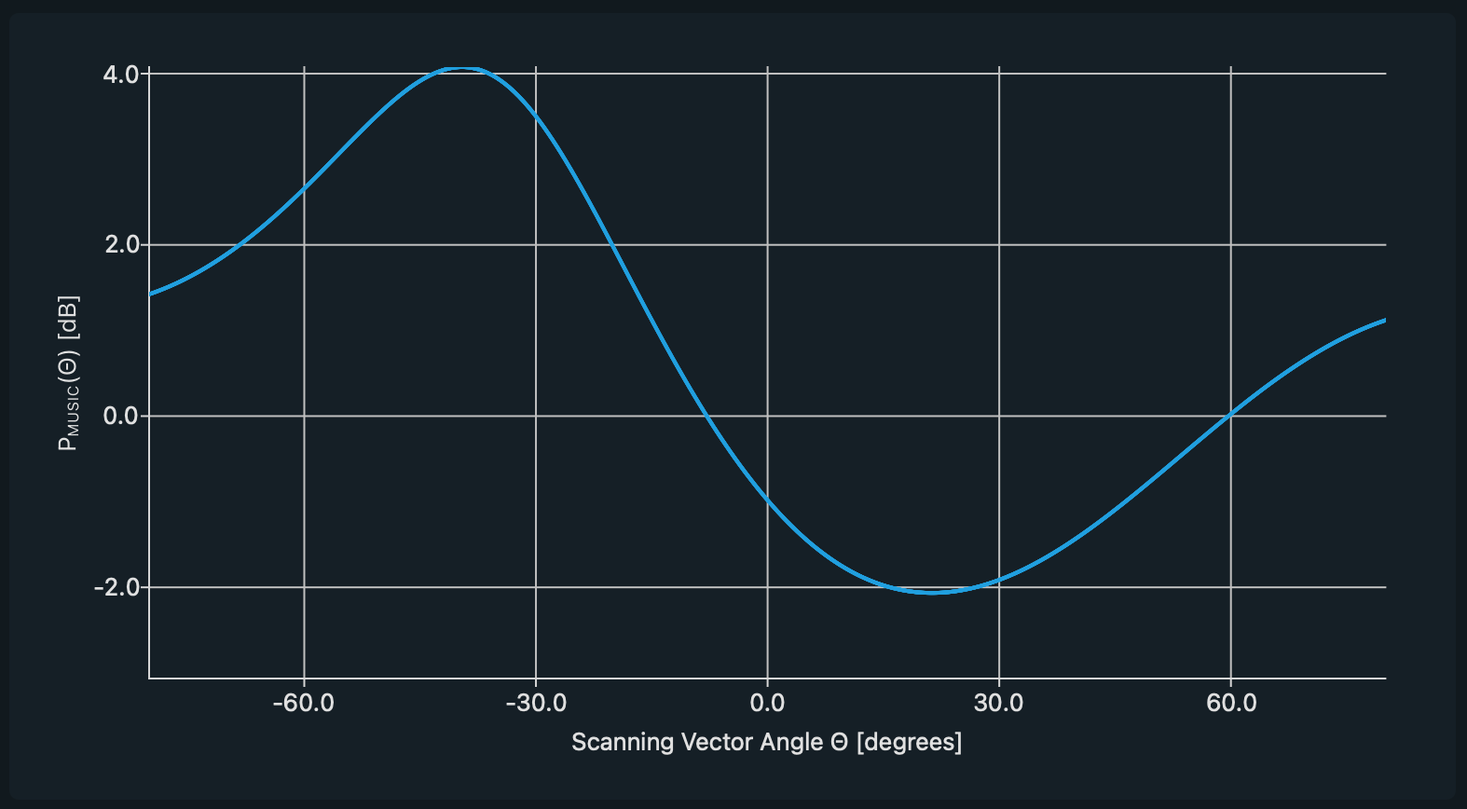
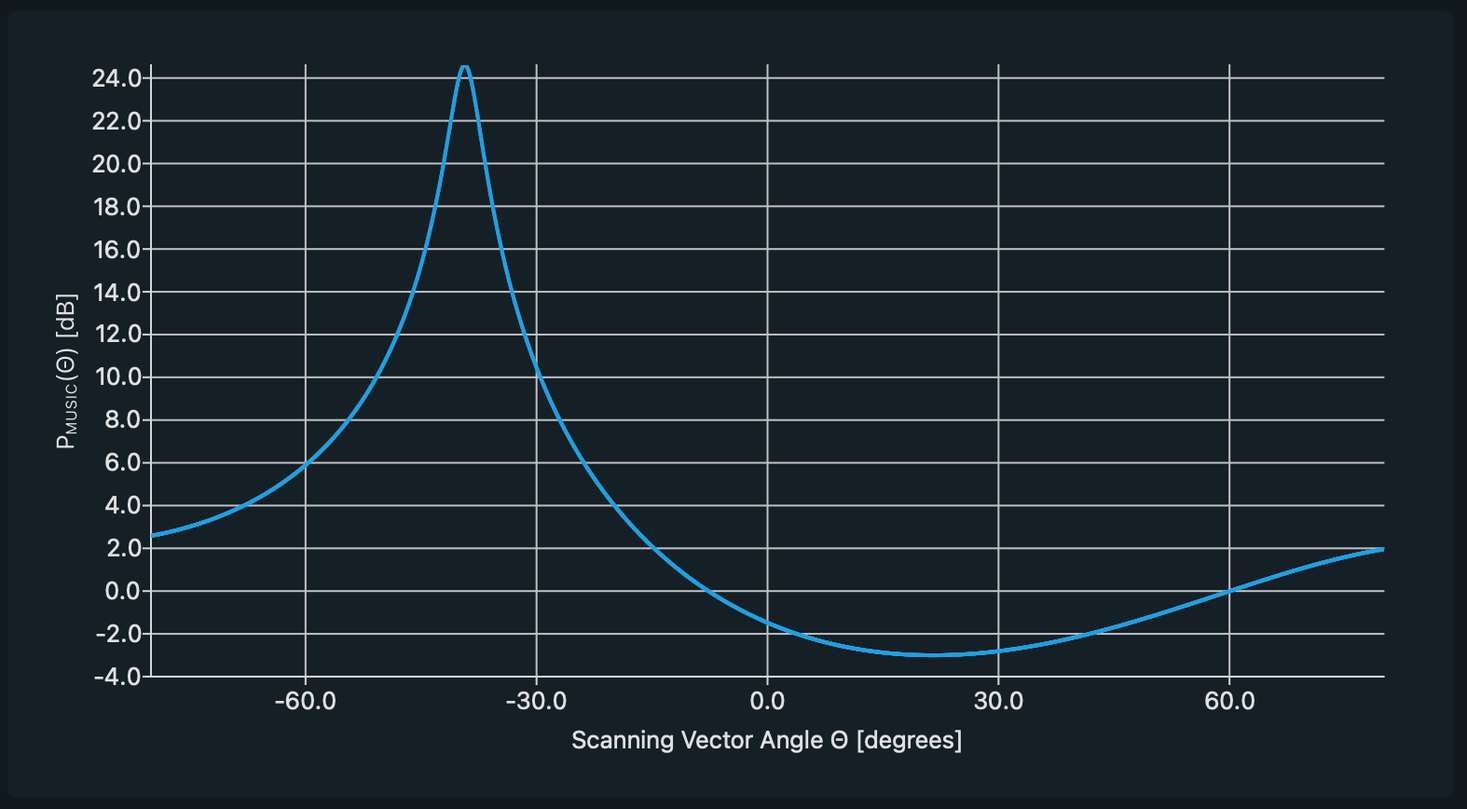
Measurement

diff --git a/matlab/music_125MHz_M256_1m_-30deg/cfr.m b/matlab/music_125MHz_M256_1m_-30deg/cfr.m
@@ -1,116 +1,116 @@
 % Auto-generated MATLAB script
 clear;
-CH0_318 = [ ...
-0 + 1i*0, 1.70001 + 1i*-0.251694, 1.69563 + 1i*-0.273885, 1.69081 + 1i*-0.295981, 1.68555 + 1i*-0.31797,  ...
-1.67987 + 1i*-0.339844, 1.67376 + 1i*-0.361593, 1.66722 + 1i*-0.383208, 1.66025 + 1i*-0.404678, 1.65287 + 1i*-0.425995,  ...
-1.64506 + 1i*-0.447148, 1.63684 + 1i*-0.468129, 1.62821 + 1i*-0.488927, 1.61917 + 1i*-0.509534, 1.60972 + 1i*-0.529939,  ...
-1.59987 + 1i*-0.550133, 1.58962 + 1i*-0.570108, 1.57898 + 1i*-0.589853, 1.56795 + 1i*-0.60936, 1.55653 + 1i*-0.628619,  ...
-1.54473 + 1i*-0.647621, 1.53256 + 1i*-0.666357, 1.52001 + 1i*-0.684817, 1.50709 + 1i*-0.702993, 1.49381 + 1i*-0.720875,  ...
-1.48018 + 1i*-0.738455, 1.46619 + 1i*-0.755723, 1.45186 + 1i*-0.772671, 1.43719 + 1i*-0.78929, 1.42219 + 1i*-0.80557,  ...
-1.40685 + 1i*-0.821504, 1.3912 + 1i*-0.837082, 1.37522 + 1i*-0.852296, 0 + 1i*0, 0 + 1i*0,  ...
-0 + 1i*0, 0 + 1i*0, 0 + 1i*0, 0 + 1i*0, 0 + 1i*0,  ...
-0 + 1i*0, 0 + 1i*0, 0 + 1i*0, 0 + 1i*0, 0 + 1i*0,  ...
-0 + 1i*0, 0 + 1i*0, 0 + 1i*0, 0 + 1i*0, 0 + 1i*0,  ...
-0 + 1i*0, 0 + 1i*0, 0 + 1i*0, 0.980362 + 1i*-1.07311, 0.959456 + 1i*-1.07828,  ...
-0.938433 + 1i*-1.0829, 0.917305 + 1i*-1.08698, 0.896083 + 1i*-1.0905, 0.874778 + 1i*-1.09346, 0.853402 + 1i*-1.09586,  ...
-0.831966 + 1i*-1.09768, 0.810483 + 1i*-1.09893, 0.788964 + 1i*-1.09959, 0.767422 + 1i*-1.09967, 0.745869 + 1i*-1.09915,  ...
-0.724318 + 1i*-1.09803, 0.702782 + 1i*-1.09631, 0.681274 + 1i*-1.09398, 0.659808 + 1i*-1.09104, 0.638396 + 1i*-1.08748,  ...
-0.617052 + 1i*-1.0833, 0.595792 + 1i*-1.07849, 0.574627 + 1i*-1.07305, 0.553573 + 1i*-1.06698, 0.532645 + 1i*-1.06028,  ...
-0.511857 + 1i*-1.05294, 0.491223 + 1i*-1.04495, 0.470759 + 1i*-1.03632, 0.45048 + 1i*-1.02704, 0.430401 + 1i*-1.01711,  ...
-0.410538 + 1i*-1.00654, 0.390907 + 1i*-0.995306, 0.371524 + 1i*-0.983421, 0.352404 + 1i*-0.970881, 0.333565 + 1i*-0.957685,  ...
-0.315022 + 1i*-0.943832, 0.296792 + 1i*-0.929322, 0.278892 + 1i*-0.914155, 0.261339 + 1i*-0.898331, 0.244151 + 1i*-0.88185,  ...
-0.227343 + 1i*-0.864715, 0.210935 + 1i*-0.846925, 0.194942 + 1i*-0.828483, 0.179384 + 1i*-0.80939, 0.164278 + 1i*-0.789649,  ...
-0.149642 + 1i*-0.769261, 0.135494 + 1i*-0.74823, 0.121852 + 1i*-0.726559, 0.108736 + 1i*-0.704252, 0.0961623 + 1i*-0.681312,  ...
-0.0841509 + 1i*-0.657744, 0.0727205 + 1i*-0.633552, 0.0618896 + 1i*-0.608741, 0 + 1i*0, 0 + 1i*0,  ...
+CH0_315 = [ ...
 0 + 1i*0, 0 + 1i*0, 0 + 1i*0, 0 + 1i*0, 0 + 1i*0,  ...
 0 + 1i*0, 0 + 1i*0, 0 + 1i*0, 0 + 1i*0, 0 + 1i*0,  ...
 0 + 1i*0, 0 + 1i*0, 0 + 1i*0, 0 + 1i*0, 0 + 1i*0,  ...
 0 + 1i*0, 0 + 1i*0, 0 + 1i*0, 0 + 1i*0, 0 + 1i*0,  ...
 0 + 1i*0, 0 + 1i*0, 0 + 1i*0, 0 + 1i*0, 0 + 1i*0,  ...
+0 + 1i*0, -0.617609 + 1i*1.04499, -0.645365 + 1i*1.06919, -0.673325 + 1i*1.09248, -0.701475 + 1i*1.11488,  ...
+-0.729799 + 1i*1.13638, -0.758283 + 1i*1.15699, -0.786912 + 1i*1.17672, -0.815672 + 1i*1.19558, -0.844549 + 1i*1.21358,  ...
+-0.873529 + 1i*1.23072, -0.902599 + 1i*1.24701, -0.931745 + 1i*1.26247, -0.960954 + 1i*1.27709, -0.990213 + 1i*1.29088,  ...
+-1.01951 + 1i*1.30386, -1.04883 + 1i*1.31603, -1.07817 + 1i*1.3274, -1.1075 + 1i*1.33798, -1.13683 + 1i*1.34778,  ...
+-1.16613 + 1i*1.3568, -1.1954 + 1i*1.36506, -1.22462 + 1i*1.37256, -1.25378 + 1i*1.37931, -1.28288 + 1i*1.38531,  ...
+-1.31191 + 1i*1.39059, -1.34084 + 1i*1.39515, -1.36967 + 1i*1.39899, -1.3984 + 1i*1.40212, -1.42701 + 1i*1.40456,  ...
+-1.4555 + 1i*1.40631, -1.48384 + 1i*1.40738, -1.51204 + 1i*1.40778, -1.54009 + 1i*1.40752, -1.56797 + 1i*1.40661,  ...
+-1.59568 + 1i*1.40505, -1.62321 + 1i*1.40286, -1.65055 + 1i*1.40004, -1.67769 + 1i*1.39661, -1.70463 + 1i*1.39257,  ...
+-1.73136 + 1i*1.38793, -1.75786 + 1i*1.3827, -1.78414 + 1i*1.37689, -1.81018 + 1i*1.37051, -1.83598 + 1i*1.36357,  ...
+-1.86152 + 1i*1.35607, -1.88682 + 1i*1.34803, -1.91185 + 1i*1.33945, -1.93661 + 1i*1.33034, -1.96109 + 1i*1.32072,  ...
+-1.98529 + 1i*1.31058, -2.00921 + 1i*1.29995, -2.03283 + 1i*1.28882, -2.05615 + 1i*1.27721, -2.07916 + 1i*1.26513,  ...
+-2.10187 + 1i*1.25258, -2.12425 + 1i*1.23957, -2.14632 + 1i*1.22612, -2.16805 + 1i*1.21223, -2.18946 + 1i*1.19791,  ...
+-2.21052 + 1i*1.18317, -2.23125 + 1i*1.16801, -2.25163 + 1i*1.15245, -2.27165 + 1i*1.1365, -2.29132 + 1i*1.12016,  ...
+-2.31063 + 1i*1.10344, -2.32957 + 1i*1.08635, -2.34815 + 1i*1.0689, -2.36635 + 1i*1.0511, -2.38417 + 1i*1.03295,  ...
+-2.40162 + 1i*1.01447, -2.41867 + 1i*0.995666, -2.43534 + 1i*0.976542, -2.45162 + 1i*0.957108, -2.4675 + 1i*0.937373,  ...
+-2.48298 + 1i*0.917345, -2.49806 + 1i*0.897033, -2.51273 + 1i*0.876446, -2.52699 + 1i*0.855593, -2.54084 + 1i*0.83448,  ...
+-2.55427 + 1i*0.813117, -2.56728 + 1i*0.791511, -2.57987 + 1i*0.769673, -2.59204 + 1i*0.74761, -2.60377 + 1i*0.72533,  ...
+-2.61508 + 1i*0.702842, -2.62596 + 1i*0.680153, -2.6364 + 1i*0.657274, -2.6464 + 1i*0.634211, -2.65596 + 1i*0.610974,  ...
+-2.66507 + 1i*0.58757, -2.67374 + 1i*0.564008, -2.68197 + 1i*0.540298, -2.68974 + 1i*0.516446, -2.69706 + 1i*0.492461,  ...
+-2.70393 + 1i*0.468351, -2.71034 + 1i*0.444126, -2.71629 + 1i*0.419794, -2.72178 + 1i*0.395363, -2.72681 + 1i*0.370841,  ...
+-2.73138 + 1i*0.346237, -2.73548 + 1i*0.32156, -2.73911 + 1i*0.296819, 0 + 1i*0, -2.74496 + 1i*0.247174,  ...
+-2.74718 + 1i*0.222288, -2.74893 + 1i*0.197373, -2.7502 + 1i*0.172435, -2.751 + 1i*0.147484, -2.75132 + 1i*0.122529,  ...
+-2.75115 + 1i*0.0975782, -2.75051 + 1i*0.0726396, -2.74939 + 1i*0.047724, -2.74778 + 1i*0.0228379, -2.7457 + 1i*-0.00200798,  ...
+-2.74312 + 1i*-0.0268045, -2.74007 + 1i*-0.0515445, -2.73652 + 1i*-0.0762169, -2.73249 + 1i*-0.100814, -2.72798 + 1i*-0.125327,  ...
+-2.72297 + 1i*-0.149744, -2.71748 + 1i*-0.17406, -2.7115 + 1i*-0.198262, -2.70502 + 1i*-0.222343, -2.69806 + 1i*-0.246293,  ...
+-2.69061 + 1i*-0.270102, -2.68267 + 1i*-0.29376, -2.67424 + 1i*-0.31726, -2.66532 + 1i*-0.340588, -2.65591 + 1i*-0.363739,  ...
+-2.64601 + 1i*-0.3867, -2.63563 + 1i*-0.409463, -2.62475 + 1i*-0.432018, -2.61338 + 1i*-0.454354, -2.60153 + 1i*-0.476462,  ...
+-2.58919 + 1i*-0.498332, 0 + 1i*0, 0 + 1i*0, 0 + 1i*0, 0 + 1i*0,  ...
+0 + 1i*0, 0 + 1i*0, 0 + 1i*0, 0 + 1i*0, 0 + 1i*0,  ...
+0 + 1i*0, 0 + 1i*0, 0 + 1i*0, 0 + 1i*0, 0 + 1i*0,  ...
+0 + 1i*0, 0 + 1i*0, 0 + 1i*0, 0 + 1i*0, 0 + 1i*0,  ...
+0 + 1i*0, -2.21965 + 1i*-0.883856, -2.19697 + 1i*-0.897777, -2.17384 + 1i*-0.911208, -2.15028 + 1i*-0.924136,  ...
+-2.12629 + 1i*-0.936549, -2.10186 + 1i*-0.948433, -2.07701 + 1i*-0.95978, -2.05175 + 1i*-0.970575, -2.02606 + 1i*-0.980806,  ...
+-1.99997 + 1i*-0.99046, -1.97347 + 1i*-0.999526, -1.94656 + 1i*-1.00799, -1.91927 + 1i*-1.01584, -1.89158 + 1i*-1.02307,  ...
+-1.86351 + 1i*-1.02965, -1.83506 + 1i*-1.03559, -1.80625 + 1i*-1.04086, -1.77706 + 1i*-1.04545, -1.74752 + 1i*-1.04935,  ...
+-1.71763 + 1i*-1.05255, -1.68739 + 1i*-1.05503, -1.65682 + 1i*-1.05678, -1.62591 + 1i*-1.05779, -1.59469 + 1i*-1.05804,  ...
+-1.56316 + 1i*-1.05752, -1.53132 + 1i*-1.05622, -1.49918 + 1i*-1.05413, -1.46676 + 1i*-1.05122, -1.43406 + 1i*-1.04749,  ...
+-1.40109 + 1i*-1.04292, -1.36787 + 1i*-1.03751, -1.3344 + 1i*-1.03122, -1.30069 + 1i*-1.02407, -1.26675 + 1i*-1.01602,  ...
+-1.2326 + 1i*-1.00706, -1.19825 + 1i*-0.99719, -1.1637 + 1i*-0.986386, -1.12897 + 1i*-0.974636, -1.09407 + 1i*-0.961927,  ...
+-1.05902 + 1i*-0.948245, -1.02383 + 1i*-0.933577, -0.988503 + 1i*-0.917908, -0.953063 + 1i*-0.901226, -0.91752 + 1i*-0.883517,  ...
+-0.881891 + 1i*-0.864766, -0.846188 + 1i*-0.844962, -0.810428 + 1i*-0.824089, -0.774626 + 1i*-0.802135, -0.738796 + 1i*-0.779086,  ...
+-0.702956 + 1i*-0.75493, 0 + 1i*0, 0 + 1i*0, 0 + 1i*0, 0 + 1i*0,  ...
 0 + 1i*0, 0 + 1i*0, 0 + 1i*0, 0 + 1i*0, 0 + 1i*0,  ...
 0 + 1i*0, 0 + 1i*0, 0 + 1i*0, 0 + 1i*0, 0 + 1i*0,  ...
 0 + 1i*0, 0 + 1i*0, 0 + 1i*0, 0 + 1i*0, 0 + 1i*0,  ...
 0 + 1i*0, 0 + 1i*0, 0 + 1i*0, 0 + 1i*0, 0 + 1i*0,  ...
-0 + 1i*0, 0 + 1i*0, 0 + 1i*0, 0 + 1i*0, 0.299666 + 1i*0.740096,  ...
-0.317908 + 1i*0.757701, 0.33648 + 1i*0.774576, 0.355366 + 1i*0.790722, 0.374548 + 1i*0.80614, 0.394008 + 1i*0.820832,  ...
-0.413731 + 1i*0.834801, 0.4337 + 1i*0.848048, 0.453896 + 1i*0.860575, 0.474306 + 1i*0.872387, 0.494912 + 1i*0.883484,  ...
-0.515697 + 1i*0.893872, 0.536647 + 1i*0.903554, 0.557745 + 1i*0.912532, 0.578977 + 1i*0.920812, 0.600326 + 1i*0.928397,  ...
-0.621779 + 1i*0.935292, 0.643319 + 1i*0.941501, 0.664932 + 1i*0.947029, 0.686604 + 1i*0.951882, 0.70832 + 1i*0.956064,  ...
-0.730067 + 1i*0.959582, 0.751831 + 1i*0.96244, 0.773597 + 1i*0.964644, 0.795353 + 1i*0.9662, 0.817085 + 1i*0.967116,  ...
-0.838781 + 1i*0.967396, 0.860426 + 1i*0.967048, 0.88201 + 1i*0.966077, 0.903519 + 1i*0.964491, 0.924941 + 1i*0.962298,  ...
-0.946265 + 1i*0.959503, 0.967478 + 1i*0.956115, 0.98857 + 1i*0.95214, 1.00953 + 1i*0.947586, 1.03034 + 1i*0.942461,  ...
-1.051 + 1i*0.936773, 1.07149 + 1i*0.930529, 1.09181 + 1i*0.923738, 1.11194 + 1i*0.916408, 1.13187 + 1i*0.908546,  ...
-1.1516 + 1i*0.900162, 1.17111 + 1i*0.891263, 1.1904 + 1i*0.881859, 1.20945 + 1i*0.871957, 1.22826 + 1i*0.861567,  ...
-1.24681 + 1i*0.850698, 1.26511 + 1i*0.839357, 1.28313 + 1i*0.827555, 1.30088 + 1i*0.815301, 1.31835 + 1i*0.802602,  ...
-1.33552 + 1i*0.78947, 1.35239 + 1i*0.775912, 1.36895 + 1i*0.761938, 1.3852 + 1i*0.747558, 1.40113 + 1i*0.73278,  ...
-1.41673 + 1i*0.717615, 1.432 + 1i*0.702072, 1.44692 + 1i*0.68616, 1.4615 + 1i*0.669889, 1.47573 + 1i*0.653269,  ...
-1.48959 + 1i*0.63631, 1.50309 + 1i*0.61902, 1.51623 + 1i*0.60141, 1.52899 + 1i*0.58349, 1.54136 + 1i*0.565269,  ...
-1.55336 + 1i*0.546757, 1.56497 + 1i*0.527964, 1.57618 + 1i*0.508901, 1.587 + 1i*0.489576, 1.59741 + 1i*0.47,  ...
-1.60742 + 1i*0.450183, 1.61702 + 1i*0.430134, 1.62621 + 1i*0.409864, 1.63498 + 1i*0.389382, 1.64334 + 1i*0.368699,  ...
-1.65127 + 1i*0.347825, 1.65878 + 1i*0.326769, 1.66586 + 1i*0.305542, 1.67252 + 1i*0.284153, 1.67874 + 1i*0.262612,  ...
-1.68453 + 1i*0.24093, 1.68988 + 1i*0.219117, 1.69479 + 1i*0.197182, 1.69927 + 1i*0.175136, 1.70331 + 1i*0.152988,  ...
-1.7069 + 1i*0.130749, 1.71005 + 1i*0.108428, 1.71276 + 1i*0.0860352, 1.71502 + 1i*0.0635811, 1.71684 + 1i*0.0410753,  ...
-1.71822 + 1i*0.0185278, 1.71915 + 1i*-0.00405146, 1.71963 + 1i*-0.0266526, 1.71966 + 1i*-0.0492657, 1.71925 + 1i*-0.0718809,  ...
-1.7184 + 1i*-0.0944882, 1.7171 + 1i*-0.117078, 1.71536 + 1i*-0.13964, 1.71317 + 1i*-0.162165, 1.71054 + 1i*-0.184642,  ...
-1.70747 + 1i*-0.207063];
-CH1_319 = [ ...
-0 + 1i*0, -1.72541 + 1i*3.59542, -1.73901 + 1i*3.59039, -1.7524 + 1i*3.58498, -1.76558 + 1i*3.57917,  ...
--1.77853 + 1i*3.57298, -1.79126 + 1i*3.56641, -1.80376 + 1i*3.55944, -1.81602 + 1i*3.55209, -1.82805 + 1i*3.54435,  ...
--1.83983 + 1i*3.53622, -1.85137 + 1i*3.52771, -1.86265 + 1i*3.51881, -1.87368 + 1i*3.50953, -1.88444 + 1i*3.49986,  ...
--1.89494 + 1i*3.4898, -1.90517 + 1i*3.47936, -1.91512 + 1i*3.46853, -1.92478 + 1i*3.45732, -1.93417 + 1i*3.44572,  ...
--1.94326 + 1i*3.43372, -1.95205 + 1i*3.42135, -1.96054 + 1i*3.40858, -1.96873 + 1i*3.39543, -1.9766 + 1i*3.38189,  ...
--1.98416 + 1i*3.36796, -1.99139 + 1i*3.35364, -1.99829 + 1i*3.33893, -2.00486 + 1i*3.32382, -2.0111 + 1i*3.30833,  ...
--2.01698 + 1i*3.29245, -2.02252 + 1i*3.27617, -2.0277 + 1i*3.2595, 0 + 1i*0, 0 + 1i*0,  ...
-0 + 1i*0, 0 + 1i*0, 0 + 1i*0, 0 + 1i*0, 0 + 1i*0,  ...
-0 + 1i*0, 0 + 1i*0, 0 + 1i*0, 0 + 1i*0, 0 + 1i*0,  ...
-0 + 1i*0, 0 + 1i*0, 0 + 1i*0, 0 + 1i*0, 0 + 1i*0,  ...
-0 + 1i*0, 0 + 1i*0, 0 + 1i*0, -2.04344 + 1i*2.81705, -2.0392 + 1i*2.7915,  ...
--2.03446 + 1i*2.76554, -2.0292 + 1i*2.73916, -2.02342 + 1i*2.71236, -2.01711 + 1i*2.68515, -2.01026 + 1i*2.65752,  ...
--2.00286 + 1i*2.62946, -1.99491 + 1i*2.60099, -1.98639 + 1i*2.57209, -1.97731 + 1i*2.54277, -1.96765 + 1i*2.51303,  ...
--1.95739 + 1i*2.48286, -1.94655 + 1i*2.45226, -1.93509 + 1i*2.42124, -1.92303 + 1i*2.38979, -1.91034 + 1i*2.35792,  ...
--1.89702 + 1i*2.32561, -1.88305 + 1i*2.29287, -1.86844 + 1i*2.25971, -1.85317 + 1i*2.22611, -1.83723 + 1i*2.19208,  ...
--1.82061 + 1i*2.15761, -1.8033 + 1i*2.12272, -1.78529 + 1i*2.08739, -1.76657 + 1i*2.05162, -1.74714 + 1i*2.01542,  ...
--1.72697 + 1i*1.97879, -1.70607 + 1i*1.94172, -1.68442 + 1i*1.90422, -1.66201 + 1i*1.86628, -1.63882 + 1i*1.8279,  ...
--1.61486 + 1i*1.78909, -1.5901 + 1i*1.74985, -1.56453 + 1i*1.71017, -1.53816 + 1i*1.67005, -1.51095 + 1i*1.6295,  ...
--1.48291 + 1i*1.58852, -1.45401 + 1i*1.5471, -1.42426 + 1i*1.50525, -1.39363 + 1i*1.46297, -1.36212 + 1i*1.42025,  ...
--1.3297 + 1i*1.37711, -1.29638 + 1i*1.33354, -1.26213 + 1i*1.28953, -1.22695 + 1i*1.2451, -1.19082 + 1i*1.20025,  ...
--1.15372 + 1i*1.15497, -1.11565 + 1i*1.10927, -1.0766 + 1i*1.06315, 0 + 1i*0, 0 + 1i*0,  ...
-0 + 1i*0, 0 + 1i*0, 0 + 1i*0, 0 + 1i*0, 0 + 1i*0,  ...
-0 + 1i*0, 0 + 1i*0, 0 + 1i*0, 0 + 1i*0, 0 + 1i*0,  ...
+0 + 1i*0];
+CH1_315 = [ ...
 0 + 1i*0, 0 + 1i*0, 0 + 1i*0, 0 + 1i*0, 0 + 1i*0,  ...
 0 + 1i*0, 0 + 1i*0, 0 + 1i*0, 0 + 1i*0, 0 + 1i*0,  ...
 0 + 1i*0, 0 + 1i*0, 0 + 1i*0, 0 + 1i*0, 0 + 1i*0,  ...
 0 + 1i*0, 0 + 1i*0, 0 + 1i*0, 0 + 1i*0, 0 + 1i*0,  ...
 0 + 1i*0, 0 + 1i*0, 0 + 1i*0, 0 + 1i*0, 0 + 1i*0,  ...
+0 + 1i*0, 0.602688 + 1i*-1.07846, 0.618629 + 1i*-1.11157, 0.634173 + 1i*-1.14431, 0.649322 + 1i*-1.17668,  ...
+0.66408 + 1i*-1.20869, 0.678448 + 1i*-1.24034, 0.69243 + 1i*-1.27163, 0.706028 + 1i*-1.30258, 0.719245 + 1i*-1.33317,  ...
+0.732084 + 1i*-1.36342, 0.744547 + 1i*-1.39332, 0.756638 + 1i*-1.42289, 0.768361 + 1i*-1.45212, 0.779716 + 1i*-1.48102,  ...
+0.790709 + 1i*-1.50959, 0.801342 + 1i*-1.53784, 0.811617 + 1i*-1.56576, 0.821539 + 1i*-1.59336, 0.831111 + 1i*-1.62064,  ...
+0.840335 + 1i*-1.6476, 0.849215 + 1i*-1.67426, 0.857754 + 1i*-1.7006, 0.865956 + 1i*-1.72663, 0.873824 + 1i*-1.75235,  ...
+0.88136 + 1i*-1.77777, 0.888569 + 1i*-1.80289, 0.895454 + 1i*-1.82771, 0.902019 + 1i*-1.85223, 0.908265 + 1i*-1.87645,  ...
+0.914197 + 1i*-1.90037, 0.919819 + 1i*-1.92401, 0.925134 + 1i*-1.94735, 0.930144 + 1i*-1.9704, 0.934855 + 1i*-1.99316,  ...
+0.939267 + 1i*-2.01563, 0.943387 + 1i*-2.03782, 0.947217 + 1i*-2.05972, 0.950759 + 1i*-2.08134, 0.954018 + 1i*-2.10267,  ...
+0.956997 + 1i*-2.12373, 0.959699 + 1i*-2.1445, 0.962129 + 1i*-2.165, 0.964288 + 1i*-2.18521, 0.966181 + 1i*-2.20515,  ...
+0.967811 + 1i*-2.22481, 0.969181 + 1i*-2.2442, 0.970295 + 1i*-2.26331, 0.971156 + 1i*-2.28215, 0.971768 + 1i*-2.30071,  ...
+0.972132 + 1i*-2.319, 0.972255 + 1i*-2.33702, 0.972137 + 1i*-2.35476, 0.971784 + 1i*-2.37223, 0.971197 + 1i*-2.38944,  ...
+0.970381 + 1i*-2.40637, 0.969338 + 1i*-2.42303, 0.968071 + 1i*-2.43942, 0.966585 + 1i*-2.45554, 0.964882 + 1i*-2.47139,  ...
+0.962966 + 1i*-2.48697, 0.960839 + 1i*-2.50228, 0.958505 + 1i*-2.51732, 0.955967 + 1i*-2.53209, 0.953228 + 1i*-2.54659,  ...
+0.950291 + 1i*-2.56083, 0.947159 + 1i*-2.57479, 0.943836 + 1i*-2.58848, 0.940324 + 1i*-2.6019, 0.936627 + 1i*-2.61505,  ...
+0.932747 + 1i*-2.62794, 0.928689 + 1i*-2.64054, 0.924453 + 1i*-2.65288, 0.920045 + 1i*-2.66495, 0.915466 + 1i*-2.67674,  ...
+0.910719 + 1i*-2.68826, 0.905808 + 1i*-2.69951, 0.900735 + 1i*-2.71048, 0.895504 + 1i*-2.72118, 0.890116 + 1i*-2.73161,  ...
+0.884576 + 1i*-2.74175, 0.878885 + 1i*-2.75163, 0.873047 + 1i*-2.76122, 0.867065 + 1i*-2.77053, 0.860942 + 1i*-2.77957,  ...
+0.854679 + 1i*-2.78833, 0.84828 + 1i*-2.7968, 0.841748 + 1i*-2.80499, 0.835085 + 1i*-2.8129, 0.828295 + 1i*-2.82053,  ...
+0.821379 + 1i*-2.82787, 0.814341 + 1i*-2.83492, 0.807184 + 1i*-2.84169, 0.799909 + 1i*-2.84816, 0.792519 + 1i*-2.85435,  ...
+0.785018 + 1i*-2.86024, 0.777408 + 1i*-2.86585, 0.769691 + 1i*-2.87115, 0.76187 + 1i*-2.87616, 0.753948 + 1i*-2.88088,  ...
+0.745927 + 1i*-2.88529, 0.737811 + 1i*-2.88941, 0.729601 + 1i*-2.89322, 0 + 1i*0, 0.712909 + 1i*-2.89993,  ...
+0.704433 + 1i*-2.90282, 0.695874 + 1i*-2.90541, 0.687234 + 1i*-2.90768, 0.678515 + 1i*-2.90965, 0.669721 + 1i*-2.91129,  ...
+0.660854 + 1i*-2.91262, 0.651916 + 1i*-2.91363, 0.642909 + 1i*-2.91432, 0.633837 + 1i*-2.91469, 0.624703 + 1i*-2.91473,  ...
+0.615506 + 1i*-2.91444, 0.606252 + 1i*-2.91382, 0.596942 + 1i*-2.91287, 0.587579 + 1i*-2.91159, 0.578166 + 1i*-2.90997,  ...
+0.568705 + 1i*-2.908, 0.559197 + 1i*-2.9057, 0.549646 + 1i*-2.90305, 0.540056 + 1i*-2.90006, 0.530427 + 1i*-2.89671,  ...
+0.520763 + 1i*-2.89301, 0.511065 + 1i*-2.88896, 0.501339 + 1i*-2.88454, 0.491583 + 1i*-2.87977, 0.481803 + 1i*-2.87463,  ...
+0.472 + 1i*-2.86912, 0.462178 + 1i*-2.86325, 0.452338 + 1i*-2.857, 0.442483 + 1i*-2.85038, 0.432617 + 1i*-2.84337,  ...
+0.422741 + 1i*-2.83598, 0 + 1i*0, 0 + 1i*0, 0 + 1i*0, 0 + 1i*0,  ...
 0 + 1i*0, 0 + 1i*0, 0 + 1i*0, 0 + 1i*0, 0 + 1i*0,  ...
 0 + 1i*0, 0 + 1i*0, 0 + 1i*0, 0 + 1i*0, 0 + 1i*0,  ...
-0 + 1i*0, 0 + 1i*0, 0 + 1i*0, 0 + 1i*0, -0.0530741 + 1i*1.67431,  ...
--0.0621849 + 1i*1.72179, -0.0716793 + 1i*1.76856, -0.081548 + 1i*1.81463, -0.0917812 + 1i*1.86001, -0.10237 + 1i*1.90469,  ...
--0.113305 + 1i*1.94869, -0.124577 + 1i*1.992, -0.136176 + 1i*2.03464, -0.148095 + 1i*2.0766, -0.160324 + 1i*2.1179,  ...
--0.172854 + 1i*2.15853, -0.185678 + 1i*2.1985, -0.198786 + 1i*2.23782, -0.21217 + 1i*2.27648, -0.225822 + 1i*2.31451,  ...
--0.239734 + 1i*2.35189, -0.253897 + 1i*2.38864, -0.268305 + 1i*2.42475, -0.282948 + 1i*2.46024, -0.297819 + 1i*2.49511,  ...
--0.312911 + 1i*2.52935, -0.328216 + 1i*2.56299, -0.343726 + 1i*2.59602, -0.359435 + 1i*2.62844, -0.375334 + 1i*2.66026,  ...
--0.391416 + 1i*2.69149, -0.407676 + 1i*2.72212, -0.424105 + 1i*2.75217, -0.440697 + 1i*2.78164, -0.457444 + 1i*2.81053,  ...
--0.474341 + 1i*2.83885, -0.49138 + 1i*2.86659, -0.508556 + 1i*2.89377, -0.52586 + 1i*2.92039, -0.543288 + 1i*2.94646,  ...
--0.560832 + 1i*2.97197, -0.578487 + 1i*2.99693, -0.596246 + 1i*3.02135, -0.614104 + 1i*3.04522, -0.632053 + 1i*3.06856,  ...
--0.65009 + 1i*3.09137, -0.668206 + 1i*3.11365, -0.686397 + 1i*3.1354, -0.704658 + 1i*3.15663, -0.72298 + 1i*3.17735,  ...
--0.741362 + 1i*3.19755, -0.759794 + 1i*3.21724, -0.778274 + 1i*3.23642, -0.796796 + 1i*3.2551, -0.815352 + 1i*3.27328,  ...
--0.83394 + 1i*3.29097, -0.852553 + 1i*3.30816, -0.871186 + 1i*3.32487, -0.889834 + 1i*3.34108, -0.908492 + 1i*3.35682,  ...
--0.927155 + 1i*3.37208, -0.945818 + 1i*3.38686, -0.964476 + 1i*3.40116, -0.983125 + 1i*3.415, -1.00176 + 1i*3.42837,  ...
--1.02037 + 1i*3.44128, -1.03896 + 1i*3.45372, -1.05752 + 1i*3.46571, -1.07605 + 1i*3.47724, -1.09454 + 1i*3.48832,  ...
--1.11299 + 1i*3.49895, -1.13139 + 1i*3.50913, -1.14974 + 1i*3.51886, -1.16803 + 1i*3.52816, -1.18626 + 1i*3.53701,  ...
--1.20442 + 1i*3.54543, -1.22252 + 1i*3.55341, -1.24054 + 1i*3.56096, -1.25848 + 1i*3.56808, -1.27634 + 1i*3.57477,  ...
--1.29411 + 1i*3.58104, -1.31179 + 1i*3.58688, -1.32938 + 1i*3.5923, -1.34686 + 1i*3.5973, -1.36424 + 1i*3.60188,  ...
--1.38151 + 1i*3.60605, -1.39867 + 1i*3.6098, -1.41571 + 1i*3.61314, -1.43263 + 1i*3.61607, -1.44943 + 1i*3.61858,  ...
--1.46609 + 1i*3.62069, -1.48262 + 1i*3.6224, -1.49902 + 1i*3.6237, -1.51526 + 1i*3.62459, -1.53137 + 1i*3.62509,  ...
--1.54732 + 1i*3.62518, -1.56312 + 1i*3.62487, -1.57875 + 1i*3.62417, -1.59423 + 1i*3.62306, -1.60953 + 1i*3.62157,  ...
--1.62467 + 1i*3.61967, -1.63962 + 1i*3.61738, -1.6544 + 1i*3.6147, -1.66899 + 1i*3.61163, -1.68339 + 1i*3.60816,  ...
--1.6976 + 1i*3.6043];
-figure;subplot(2,1,1); hold on;plot(abs(CH0_318), 'DisplayName', 'CH0_318');title('Channel Frequency Response Gain'); legend; grid on;
-subplot(2,1,2); hold on;plot(angle(CH0_318), 'DisplayName', 'CH0_318');title('Channel Frequency Response Phase'); legend; grid on;
-figure;plot(real(CH0_318), imag(CH0_318), '.', 'DisplayName', 'CH0_318'); hold on;title('CFR'); xlabel('Real'); ylabel('Imag'); axis equal; legend; grid on;
+0 + 1i*0, 0 + 1i*0, 0 + 1i*0, 0 + 1i*0, 0 + 1i*0,  ...
+0 + 1i*0, 0.218294 + 1i*-2.58625, 0.208957 + 1i*-2.56954, 0.199681 + 1i*-2.55235, 0.190469 + 1i*-2.53469,  ...
+0.181327 + 1i*-2.51655, 0.172257 + 1i*-2.49793, 0.163265 + 1i*-2.47882, 0.154352 + 1i*-2.45921, 0.145523 + 1i*-2.43911,  ...
+0.136783 + 1i*-2.41851, 0.128135 + 1i*-2.3974, 0.119583 + 1i*-2.37579, 0.111132 + 1i*-2.35365, 0.102786 + 1i*-2.331,  ...
+0.0945493 + 1i*-2.30782, 0.0864269 + 1i*-2.28411, 0.0784226 + 1i*-2.25987, 0.0705416 + 1i*-2.23508, 0.0627889 + 1i*-2.20975,  ...
+0.0551684 + 1i*-2.18387, 0.0476859 + 1i*-2.15744, 0.0403461 + 1i*-2.13044, 0.0331542 + 1i*-2.10288, 0.0261156 + 1i*-2.07475,  ...
+0.0192355 + 1i*-2.04604, 0.0125197 + 1i*-2.01676, 0.00597341 + 1i*-1.98688, -0.000397265 + 1i*-1.95642, -0.00658643 + 1i*-1.92536,  ...
+-0.0125885 + 1i*-1.89369, -0.0183972 + 1i*-1.86142, -0.0240061 + 1i*-1.82854, -0.0294089 + 1i*-1.79503, -0.0345994 + 1i*-1.76091,  ...
+-0.0395705 + 1i*-1.72615, -0.0443152 + 1i*-1.69076, -0.0488269 + 1i*-1.65473, -0.0530985 + 1i*-1.61806, -0.0571228 + 1i*-1.58073,  ...
+-0.0608918 + 1i*-1.54275, -0.0643984 + 1i*-1.50411, -0.0676346 + 1i*-1.4648, -0.0705925 + 1i*-1.42481, -0.0732637 + 1i*-1.38415,  ...
+-0.0756402 + 1i*-1.3428, -0.0777132 + 1i*-1.30077, -0.0794744 + 1i*-1.25804, -0.0809144 + 1i*-1.21461, -0.0820243 + 1i*-1.17047,  ...
+-0.0827947 + 1i*-1.12562, 0 + 1i*0, 0 + 1i*0, 0 + 1i*0, 0 + 1i*0,  ...
+0 + 1i*0, 0 + 1i*0, 0 + 1i*0, 0 + 1i*0, 0 + 1i*0,  ...
+0 + 1i*0, 0 + 1i*0, 0 + 1i*0, 0 + 1i*0, 0 + 1i*0,  ...
+0 + 1i*0, 0 + 1i*0, 0 + 1i*0, 0 + 1i*0, 0 + 1i*0,  ...
+0 + 1i*0, 0 + 1i*0, 0 + 1i*0, 0 + 1i*0, 0 + 1i*0,  ...
+0 + 1i*0];
+figure;subplot(2,1,1); hold on;plot(abs(CH0_315), 'DisplayName', 'CH0_315');title('Channel Frequency Response Gain'); legend; grid on;
+subplot(2,1,2); hold on;plot(angle(CH0_315), 'DisplayName', 'CH0_315');title('Channel Frequency Response Phase'); legend; grid on;
+figure;plot(real(CH0_315), imag(CH0_315), '.', 'DisplayName', 'CH0_315'); hold on;title('CFR'); xlabel('Real'); ylabel('Imag'); axis equal; legend; grid on;
 
-figure;subplot(2,1,1); hold on;plot(abs(CH1_319), 'DisplayName', 'CH1_319');title('Channel Frequency Response Gain'); legend; grid on;
-subplot(2,1,2); hold on;plot(angle(CH1_319), 'DisplayName', 'CH1_319');title('Channel Frequency Response Phase'); legend; grid on;
-figure;plot(real(CH1_319), imag(CH1_319), '.', 'DisplayName', 'CH1_319'); hold on;title('CFR'); xlabel('Real'); ylabel('Imag'); axis equal; legend; grid on;
+figure;subplot(2,1,1); hold on;plot(abs(CH1_315), 'DisplayName', 'CH1_315');title('Channel Frequency Response Gain'); legend; grid on;
+subplot(2,1,2); hold on;plot(angle(CH1_315), 'DisplayName', 'CH1_315');title('Channel Frequency Response Phase'); legend; grid on;
+figure;plot(real(CH1_315), imag(CH1_315), '.', 'DisplayName', 'CH1_315'); hold on;title('CFR'); xlabel('Real'); ylabel('Imag'); axis equal; legend; grid on;
 

diff --git a/matlab/music_125MHz_M256_1m_-30deg/cbdata.m b/matlab/music_125MHz_M256_1m_-30deg/cbdata.m
@@ -1,74 +1,74 @@
 % Auto-generated MATLAB script
 clear;
-CH1_319 = [ ...
--0.927039 + 1i*0.0399143, -1.26382 + 1i*-0.0145018, -1.50679 + 1i*0.0398219, 1.89838 + 1i*-0.039054, 0.81839 + 1i*0.00280638,  ...
-1.71908 + 1i*0.014778, 1.67256 + 1i*-0.0343648, 0.207295 + 1i*0.0159875, -1.12898 + 1i*0.0246739, -0.49081 + 1i*-0.0249841,  ...
-0.541118 + 1i*-0.0515177, -1.01373 + 1i*-0.0136087, 1.60974 + 1i*-0.0113174, 1.07565 + 1i*0.0150414, -1.61644 + 1i*0.00779419,  ...
--0.838731 + 1i*-0.0108658, -0.916919 + 1i*-0.0169192, -0.881083 + 1i*0.0447608, 1.25169 + 1i*-0.0392168, 0.621199 + 1i*0.00729066,  ...
--0.784256 + 1i*0.00224118, -0.5948 + 1i*0.020419, -1.50774 + 1i*0.0232152, -0.530243 + 1i*-0.0115896, 1.11562 + 1i*0.0106505,  ...
--1.06052 + 1i*0.0347334, -0.742062 + 1i*0.0296157, 1.23316 + 1i*-0.0270759, 0.436851 + 1i*-0.0180207, -1.16269 + 1i*0.0220518,  ...
--1.38083 + 1i*0.0318708, 0.489902 + 1i*0.0129633, 0.888674 + 1i*0.0138948, -0.638044 + 1i*0.0344385, 0.726873 + 1i*-0.0475267,  ...
--1.07772 + 1i*-0.0137713, -1.18571 + 1i*0.0268047, -0.637259 + 1i*0.0104176, -0.937473 + 1i*-0.0357507, -1.02931 + 1i*0.0310224,  ...
--1.20985 + 1i*-0.017943, 0.903073 + 1i*0.0110808, -0.694389 + 1i*0.0191608, 1.16269 + 1i*0.0105248, -0.918867 + 1i*-0.018986,  ...
--1.40128 + 1i*-0.0122442, 1.22483 + 1i*-0.00678438, -0.732903 + 1i*-0.0084276, 0.887965 + 1i*-0.0359909, -1.56518 + 1i*-0.0113787,  ...
--0.578824 + 1i*-0.0228648, -1.22896 + 1i*0.0275157, 0.779387 + 1i*0.0196439, 0.65869 + 1i*-0.0234522, 1.3579 + 1i*-0.00274637,  ...
-0.512044 + 1i*0.0351155, 1.27657 + 1i*-0.00318981, 0.982178 + 1i*0.0282356, 0.7153 + 1i*0.0188279, -1.06136 + 1i*0.0192427,  ...
-1.30942 + 1i*0.0230858, 0.528163 + 1i*0.0356694, -1.13355 + 1i*-0.0372336, 0.561635 + 1i*0.0286999, -0.846025 + 1i*0.0391395,  ...
--0.745589 + 1i*0.0030546, -1.46133 + 1i*-0.0396218, 1.09498 + 1i*0.0246359, 1.28345 + 1i*-0.0166035, -0.849374 + 1i*0.014105,  ...
-1.01256 + 1i*0.0231456, -1.00644 + 1i*0.0441701, -1.25278 + 1i*0.000748914, -0.855177 + 1i*-0.0267613, -0.930034 + 1i*-0.00030306,  ...
-1.18191 + 1i*-0.0118052, -1.05892 + 1i*-0.0133208, 1.31725 + 1i*0.0308379, -0.869814 + 1i*0.0159701, -1.50699 + 1i*0.00142026,  ...
--0.965462 + 1i*-0.0258017, 1.17337 + 1i*0.00324066, -1.18073 + 1i*-0.015381, -0.888436 + 1i*-0.0358386, -1.2805 + 1i*0.0238467,  ...
--1.00982 + 1i*-0.0194406, -1.14475 + 1i*-0.0244473, 0.407755 + 1i*-0.0322998, -1.56061 + 1i*-0.0143476, 0.532016 + 1i*-0.018387,  ...
-0.988637 + 1i*0.00188255, -0.974188 + 1i*-0.0235095, -0.962092 + 1i*0.011516, 1.21215 + 1i*0.0146239, 0.347216 + 1i*0.0342305,  ...
-1.16299 + 1i*-0.0106454, 0.882028 + 1i*0.0136135, -0.046188 + 1i*-0.0221633, 0.813025 + 1i*0.0447583, 0.570715 + 1i*0.0219497,  ...
--1.09568 + 1i*-0.0190334, -1.10795 + 1i*0.0224309, -0.905533 + 1i*0.00237765, 0.959851 + 1i*-0.00903839, -1.19611 + 1i*0.0413989,  ...
-1.52275 + 1i*0.0113558, -0.885842 + 1i*0.0257632, -1.3173 + 1i*0.0263385, 0.372847 + 1i*0.0227387, 2.10894 + 1i*-0.032748,  ...
--1.23634 + 1i*0.0174754, -1.12863 + 1i*-0.0143277, -0.592723 + 1i*-0.00261586, -1.19806 + 1i*0.0332368, -0.784835 + 1i*0.0244057,  ...
-0.946159 + 1i*-0.0198218, 0.60405 + 1i*-0.0213765, -0.629198 + 1i*0.0177589, 1.12825 + 1i*-0.0132859, 1.15457 + 1i*-0.00757661,  ...
-1.50607 + 1i*-0.027875, -0.7015 + 1i*0.00940682, 0.307645 + 1i*-0.00878498, 0.349663 + 1i*-0.00842688, -0.564263 + 1i*0.0172655,  ...
-0.626944 + 1i*-0.0260384, -0.485369 + 1i*0.0144471, 1.77095 + 1i*-0.0148985, 0.973699 + 1i*-0.0142979, 0.499745 + 1i*-0.0113518,  ...
-1.06406 + 1i*-0.0366563, -0.651823 + 1i*0.00755704, 1.48304 + 1i*-0.0275592, 1.07029 + 1i*-0.037811, -0.627881 + 1i*0.0203014,  ...
--1.28475 + 1i*0.0323304, -1.04894 + 1i*-0.0124827, 1.01263 + 1i*0.0047987, -0.537349 + 1i*0.0266525, -1.02717 + 1i*0.0330572,  ...
-0.659644 + 1i*-0.00492261, -0.301648 + 1i*-0.0040101, 1.31154 + 1i*-0.050666, -1.45561 + 1i*0.0453094, 1.49583 + 1i*-0.00893044,  ...
-0.763268 + 1i*0.00593843, 0.631053 + 1i*0.0120215, -1.38078 + 1i*0.00130683, -0.521711 + 1i*-0.021821, 1.01647 + 1i*0.00477976,  ...
-1.51367 + 1i*-0.0406094, 1.09549 + 1i*-0.0182585, -0.870584 + 1i*0.0297322, -0.671068 + 1i*0.00432591, 1.06179 + 1i*-0.0630995,  ...
--1.7767 + 1i*-0.000571698, -0.348614 + 1i*-0.00899931, 0.867524 + 1i*-0.0462688, -1.07155 + 1i*0.0569016, 1.06755 + 1i*-0.00571468,  ...
--1.86649 + 1i*0.0576945];
-CH0_318 = [ ...
--0.949582 + 1i*0.0168338, -1.25962 + 1i*-0.000226452, -1.55203 + 1i*-0.0160109, 1.89471 + 1i*-0.0060394, 0.814531 + 1i*0.00232311,  ...
-1.72184 + 1i*0.000551425, 1.72687 + 1i*-0.0117735, 0.213027 + 1i*0.0157039, -1.13191 + 1i*-0.00144008, -0.489974 + 1i*-0.00656284,  ...
-0.570172 + 1i*-0.0101935, -1.0141 + 1i*0.013058, 1.63678 + 1i*-0.0133852, 1.08757 + 1i*0.0240152, -1.59067 + 1i*0.000309923,  ...
--0.864735 + 1i*-0.0120059, -0.90225 + 1i*-0.00366094, -0.892242 + 1i*0.000812024, 1.26305 + 1i*-0.025532, 0.61909 + 1i*-0.0042987,  ...
--0.77842 + 1i*0.0245784, -0.607849 + 1i*0.00838811, -1.52812 + 1i*0.00187825, -0.581055 + 1i*0.00829398, 1.13838 + 1i*0.0144133,  ...
--1.07276 + 1i*0.0101028, -0.784565 + 1i*-0.00370648, 1.24102 + 1i*-0.0155453, 0.459879 + 1i*0.00160741, -1.155 + 1i*-0.00639873,  ...
--1.41699 + 1i*0.00953534, 0.491635 + 1i*-0.00330954, 0.889176 + 1i*0.0143711, -0.629484 + 1i*0.00287545, 0.769639 + 1i*-0.0234616,  ...
--1.06321 + 1i*-0.00136054, -1.2014 + 1i*-0.000687687, -0.64364 + 1i*0.00736317, -0.923483 + 1i*0.00680185, -1.07147 + 1i*-0.00855116,  ...
--1.23969 + 1i*0.0149856, 0.915726 + 1i*-0.0164344, -0.687542 + 1i*-0.00703706, 1.18407 + 1i*0.00677618, -0.888134 + 1i*-0.00369821,  ...
--1.39104 + 1i*-0.0178287, 1.19562 + 1i*0.0104961, -0.719691 + 1i*0.00777109, 0.925282 + 1i*-0.0117444, -1.55371 + 1i*-0.0159409,  ...
--0.609298 + 1i*-0.023892, -1.25633 + 1i*0.00048317, 0.741867 + 1i*-0.00561961, 0.668141 + 1i*0.016654, 1.38355 + 1i*-0.0106261,  ...
-0.500836 + 1i*0.0146022, 1.2636 + 1i*-0.00532964, 1.01117 + 1i*0.00979271, 0.709646 + 1i*0.0232644, -1.06421 + 1i*-0.0131288,  ...
-1.31708 + 1i*-0.0164696, 0.530747 + 1i*0.0131628, -1.13026 + 1i*0.0115158, 0.552983 + 1i*0.0032802, -0.855042 + 1i*0.0176326,  ...
--0.778871 + 1i*0.00806456, -1.47173 + 1i*-0.0213169, 1.09691 + 1i*-0.00227712, 1.308 + 1i*0.0254733, -0.835282 + 1i*-0.0116276,  ...
-1.01224 + 1i*-0.0171472, -1.04927 + 1i*0.0333993, -1.2775 + 1i*0.000530342, -0.866577 + 1i*-0.0175503, -0.91863 + 1i*-0.0184107,  ...
-1.22226 + 1i*-0.0103611, -1.09643 + 1i*0.00824124, 1.31279 + 1i*0.0553471, -0.874859 + 1i*-0.0153267, -1.52934 + 1i*0.00650782,  ...
--1.00103 + 1i*-0.00587474, 1.1839 + 1i*0.0331274, -1.15365 + 1i*-0.00756604, -0.85542 + 1i*-0.028356, -1.3251 + 1i*-0.00172109,  ...
--1.02491 + 1i*-0.0120901, -1.15653 + 1i*-0.00569941, 0.448459 + 1i*-0.000336968, -1.59296 + 1i*0.00523853, 0.533483 + 1i*-0.0229887,  ...
-0.992187 + 1i*-0.00770184, -0.954855 + 1i*-0.00365491, -0.976176 + 1i*0.00602324, 1.17939 + 1i*0.0132915, 0.318999 + 1i*0.0360253,  ...
-1.16925 + 1i*0.00710844, 0.89188 + 1i*0.00735921, -0.0386376 + 1i*0.0129208, 0.784654 + 1i*0.00804008, 0.584236 + 1i*-0.000530705,  ...
--1.08028 + 1i*-0.0112256, -1.11491 + 1i*0.00118447, -0.87835 + 1i*0.000427353, 0.965294 + 1i*-0.00269674, -1.21906 + 1i*0.021768,  ...
-1.51624 + 1i*-0.00779661, -0.889978 + 1i*0.0102021, -1.30964 + 1i*-0.00486916, 0.318984 + 1i*0.00391067, 2.14904 + 1i*-0.00508872,  ...
--1.19756 + 1i*0.00170919, -1.09697 + 1i*-0.00867479, -0.591729 + 1i*-0.00960333, -1.22632 + 1i*0.0113752, -0.802423 + 1i*0.00217032,  ...
-0.93075 + 1i*-0.012199, 0.60027 + 1i*-0.0045061, -0.641565 + 1i*0.010391, 1.11559 + 1i*0.00727821, 1.16252 + 1i*-0.00555245,  ...
-1.52636 + 1i*-0.0054107, -0.687702 + 1i*0.023804, 0.313738 + 1i*-0.011004, 0.344938 + 1i*0.0113167, -0.568832 + 1i*-0.00598492,  ...
-0.629464 + 1i*-0.0100386, -0.500286 + 1i*0.0245187, 1.74854 + 1i*-0.0150601, 0.978055 + 1i*0.0130265, 0.511888 + 1i*-0.00352014,  ...
-1.06768 + 1i*-0.0159308, -0.657947 + 1i*0.00722675, 1.48442 + 1i*-0.00982649, 1.12294 + 1i*-0.030713, -0.615392 + 1i*0.02187,  ...
--1.30113 + 1i*0.00657594, -1.06333 + 1i*-0.00403356, 1.02453 + 1i*-0.00252642, -0.525161 + 1i*0.0114635, -1.03939 + 1i*-0.00161693,  ...
-0.643803 + 1i*-0.0165299, -0.298534 + 1i*0.0169799, 1.34721 + 1i*-0.0247501, -1.46827 + 1i*0.0113632, 1.46465 + 1i*-0.00892253,  ...
-0.775661 + 1i*0.00832802, 0.653611 + 1i*-0.00900689, -1.37015 + 1i*0.0113549, -0.551447 + 1i*-0.000172756, 1.01781 + 1i*-0.000923587,  ...
-1.53565 + 1i*-0.0106863, 1.09203 + 1i*-0.000434476, -0.882871 + 1i*0.0283057, -0.669002 + 1i*0.00248279, 1.08305 + 1i*-0.0168449,  ...
--1.77338 + 1i*0.0261701, -0.389292 + 1i*-0.00144071, 0.880113 + 1i*-0.0113813, -1.06939 + 1i*0.0113061, 1.05926 + 1i*-0.0341489,  ...
--1.89611 + 1i*0.0776306];
-figure;plot(real(CH1_319), imag(CH1_319), '.', 'DisplayName', 'CH1_319'); hold on;
-plot(real(CH0_318), imag(CH0_318), '.', 'DisplayName', 'CH0_318'); hold on;
+CH1_315 = [ ...
+-0.936886 + 1i*0.0443106, -1.24664 + 1i*-0.0171857, -1.54583 + 1i*0.0447379, 1.84147 + 1i*-0.0362523, 0.787388 + 1i*0.0127294,  ...
+1.70874 + 1i*0.0201835, 1.69905 + 1i*-0.0305167, 0.254423 + 1i*0.00966995, -1.10874 + 1i*0.0376572, -0.521892 + 1i*-0.0210832,  ...
+0.564167 + 1i*-0.0436728, -1.02286 + 1i*-0.00580432, 1.60998 + 1i*-0.000902958, 1.11543 + 1i*0.0244558, -1.55352 + 1i*0.00130842,  ...
+-0.848413 + 1i*-0.0179628, -0.937955 + 1i*-0.0249419, -0.903076 + 1i*0.0452792, 1.24623 + 1i*-0.0487013, 0.642932 + 1i*-0.00174285,  ...
+-0.758903 + 1i*0.00241959, -0.589065 + 1i*0.00979504, -1.52549 + 1i*0.0237389, -0.605833 + 1i*-0.0160303, 1.14088 + 1i*0.00814587,  ...
+-1.05177 + 1i*0.0364498, -0.801898 + 1i*0.0271796, 1.19891 + 1i*-0.0434122, 0.480263 + 1i*-0.0326055, -1.12955 + 1i*0.0161138,  ...
+-1.40818 + 1i*0.0422478, 0.471182 + 1i*-0.00295306, 0.905266 + 1i*0.00469094, -0.597231 + 1i*0.0321793, 0.773617 + 1i*-0.0497053,  ...
+-1.05819 + 1i*-0.00042858, -1.20352 + 1i*0.0209478, -0.650291 + 1i*0.0195806, -0.926471 + 1i*-0.0293119, -1.03929 + 1i*0.0305595,  ...
+-1.26914 + 1i*-0.00457863, 0.901772 + 1i*0.0078844, -0.704045 + 1i*0.0365331, 1.16527 + 1i*0.00392703, -0.898101 + 1i*-0.020753,  ...
+-1.40887 + 1i*-0.00771996, 1.17533 + 1i*-0.018364, -0.736586 + 1i*-0.00544205, 0.913026 + 1i*-0.0373516, -1.55484 + 1i*-0.00308271,  ...
+-0.624441 + 1i*-0.0357244, -1.27616 + 1i*0.0287246, 0.723517 + 1i*0.00156303, 0.613469 + 1i*-0.00483407, 1.37577 + 1i*-0.0261567,  ...
+0.528926 + 1i*0.0321162, 1.23758 + 1i*-0.0249594, 1.011 + 1i*0.0202229, 0.751235 + 1i*0.0306434, -1.04845 + 1i*0.0384339,  ...
+1.31218 + 1i*0.021604, 0.582036 + 1i*0.0181393, -1.11087 + 1i*-0.0265492, 0.557332 + 1i*0.0194337, -0.800624 + 1i*0.0516145,  ...
+-0.749113 + 1i*0.0194766, -1.50422 + 1i*-0.0246146, 1.04467 + 1i*0.0213832, 1.30129 + 1i*-0.0343315, -0.81077 + 1i*0.0317022,  ...
+0.997844 + 1i*0.0462853, -0.98756 + 1i*0.0241258, -1.23495 + 1i*-0.012747, -0.837671 + 1i*-0.0281705, -0.930877 + 1i*-0.014838,  ...
+1.1828 + 1i*-0.0295673, -1.07954 + 1i*-0.0208556, 1.31339 + 1i*0.0349491, -0.807413 + 1i*-0.0205615, -1.49368 + 1i*0.000585217,  ...
+-0.990403 + 1i*-0.0329098, 1.1716 + 1i*0.0149538, -1.15904 + 1i*-0.0147573, -0.864221 + 1i*-0.0329071, -1.29776 + 1i*0.00553349,  ...
+-1.02809 + 1i*-0.024287, -1.19365 + 1i*-0.00814558, 0.396069 + 1i*-0.0323161, -1.62501 + 1i*-0.0155807, 0.476744 + 1i*-0.0288654,  ...
+0.984883 + 1i*-0.0241878, -0.973785 + 1i*0.000223413, -1.01446 + 1i*0.0342995, 1.15561 + 1i*0.00227939, 0.313188 + 1i*0.0360554,  ...
+1.15877 + 1i*-0.0378236, 0.906598 + 1i*0.00454058, -0.0588026 + 1i*-0.0146213, 0.829639 + 1i*0.0263901, 0.617734 + 1i*0.00694865,  ...
+-1.07077 + 1i*-0.00239711, -1.12304 + 1i*0.0195504, -0.873594 + 1i*-0.00951333, 0.95456 + 1i*0.00220875, -1.20767 + 1i*0.0313557,  ...
+1.54663 + 1i*-0.00267571, -0.850233 + 1i*0.023676, -1.31084 + 1i*0.02717, 0.304918 + 1i*0.0290246, 2.17419 + 1i*-0.0338167,  ...
+-1.17031 + 1i*0.0253225, -1.09886 + 1i*-0.0123987, -0.586177 + 1i*-0.0158842, -1.20991 + 1i*0.042024, -0.804356 + 1i*0.0436465,  ...
+0.938972 + 1i*-0.0160132, 0.589649 + 1i*-0.00811101, -0.671048 + 1i*0.0361345, 1.08804 + 1i*-0.00288359, 1.1505 + 1i*-0.0127575,  ...
+1.53943 + 1i*-0.0263819, -0.676663 + 1i*0.0276699, 0.313547 + 1i*-0.0139357, 0.338161 + 1i*-0.000108351, -0.554852 + 1i*0.0246153,  ...
+0.617157 + 1i*-0.0215574, -0.51697 + 1i*0.0251724, 1.7469 + 1i*-0.0232927, 0.994667 + 1i*-0.0217016, 0.536124 + 1i*-0.00195743,  ...
+1.07318 + 1i*-0.0405954, -0.670234 + 1i*-0.000493508, 1.48275 + 1i*-0.0171037, 1.12523 + 1i*-0.0352058, -0.564994 + 1i*0.0312768,  ...
+-1.27479 + 1i*0.0404136, -1.10469 + 1i*-0.00714741, 1.04971 + 1i*0.0139487, -0.501881 + 1i*0.0500083, -1.02209 + 1i*0.0269361,  ...
+0.625593 + 1i*0.000151712, -0.301397 + 1i*-0.00425659, 1.36047 + 1i*-0.0464539, -1.43108 + 1i*0.0437475, 1.44729 + 1i*-0.00101337,  ...
+0.757688 + 1i*0.0169916, 0.688132 + 1i*0.0250962, -1.36838 + 1i*0.00293873, -0.573601 + 1i*-0.0234522, 0.98835 + 1i*0.00856889,  ...
+1.52934 + 1i*-0.0231217, 1.10303 + 1i*-0.0182073, -0.859991 + 1i*0.032791, -0.674812 + 1i*0.0210646, 1.07345 + 1i*-0.0556658,  ...
+-1.76719 + 1i*-0.00192571, -0.393613 + 1i*-0.0134296, 0.837594 + 1i*-0.0524762, -1.0484 + 1i*0.0475259, 1.0637 + 1i*0.00650821,  ...
+-1.85412 + 1i*0.0576334];
+CH0_315 = [ ...
+-0.95429 + 1i*0.0218315, -1.24995 + 1i*0.00419836, -1.55163 + 1i*0.0279111, 1.89325 + 1i*-0.0206545, 0.806895 + 1i*-0.00270324,  ...
+1.70997 + 1i*-0.0101325, 1.70095 + 1i*-0.0123596, 0.233667 + 1i*6.50258e-05, -1.1372 + 1i*0.0182799, -0.49717 + 1i*-0.0047701,  ...
+0.578215 + 1i*-0.015789, -1.01955 + 1i*-0.00240952, 1.60852 + 1i*0.00338338, 1.08418 + 1i*0.0104251, -1.58251 + 1i*0.0129781,  ...
+-0.8467 + 1i*-0.00192347, -0.917396 + 1i*0.00164259, -0.904576 + 1i*0.0135016, 1.26683 + 1i*-0.0237626, 0.634584 + 1i*-0.0112583,  ...
+-0.7757 + 1i*0.00261355, -0.600743 + 1i*0.0100727, -1.52517 + 1i*0.0159119, -0.570715 + 1i*-0.00934392, 1.12829 + 1i*-0.000973975,  ...
+-1.06965 + 1i*0.010675, -0.794624 + 1i*0.00600675, 1.23657 + 1i*-0.0240455, 0.459508 + 1i*-0.0162838, -1.14712 + 1i*0.00798804,  ...
+-1.41993 + 1i*0.0228172, 0.483578 + 1i*-0.00217169, 0.905735 + 1i*-0.00579636, -0.631217 + 1i*0.013268, 0.751864 + 1i*-0.0213948,  ...
+-1.07397 + 1i*-0.000124501, -1.19897 + 1i*-0.00118011, -0.655788 + 1i*0.000769237, -0.932727 + 1i*-0.003375, -1.03926 + 1i*0.0107556,  ...
+-1.25278 + 1i*0.000714177, 0.899072 + 1i*0.00432092, -0.720835 + 1i*0.0132549, 1.15399 + 1i*-0.00171381, -0.881854 + 1i*-0.0105422,  ...
+-1.40508 + 1i*0.00464338, 1.2011 + 1i*-0.0173342, -0.730476 + 1i*-0.00257277, 0.908332 + 1i*-0.0163478, -1.56169 + 1i*0.00753806,  ...
+-0.58386 + 1i*-0.0157912, -1.25163 + 1i*0.0119401, 0.756255 + 1i*-0.00944538, 0.622146 + 1i*-0.00299911, 1.37345 + 1i*-0.00975198,  ...
+0.500723 + 1i*0.0114371, 1.26842 + 1i*-0.0150602, 0.995189 + 1i*0.0263772, 0.717055 + 1i*0.00973397, -1.06823 + 1i*0.0202136,  ...
+1.30501 + 1i*0.00335632, 0.559557 + 1i*0.0148498, -1.11351 + 1i*-0.0150609, 0.558582 + 1i*-0.00758722, -0.848413 + 1i*0.0389154,  ...
+-0.768148 + 1i*-0.00237993, -1.48248 + 1i*-0.00913925, 1.06213 + 1i*0.000104295, 1.31943 + 1i*-0.0163499, -0.850384 + 1i*0.00840325,  ...
+0.989758 + 1i*0.0129712, -0.994873 + 1i*0.0252796, -1.23822 + 1i*-0.00989254, -0.849054 + 1i*0.000850287, -0.918754 + 1i*-0.00249203,  ...
+1.20399 + 1i*-0.0134434, -1.07477 + 1i*-0.0171417, 1.27694 + 1i*0.0133645, -0.825107 + 1i*0.00365926, -1.51399 + 1i*-0.0065073,  ...
+-0.969632 + 1i*-0.00995516, 1.16032 + 1i*0.00713958, -1.16023 + 1i*-0.0142691, -0.862687 + 1i*-0.0119966, -1.30591 + 1i*0.00292682,  ...
+-0.998398 + 1i*-0.00858753, -1.17535 + 1i*-0.00971707, 0.411125 + 1i*-0.0130543, -1.58953 + 1i*-0.0173304, 0.513152 + 1i*-0.0114807,  ...
+0.994191 + 1i*-0.00634636, -0.972441 + 1i*-0.00647992, -1.01526 + 1i*0.0157129, 1.176 + 1i*0.00711366, 0.316132 + 1i*0.013852,  ...
+1.17189 + 1i*-0.0111385, 0.88933 + 1i*0.00559431, -0.0438512 + 1i*-0.00860454, 0.800441 + 1i*0.0240799, 0.594203 + 1i*0.0148357,  ...
+-1.08337 + 1i*-0.00910382, -1.1296 + 1i*0.00745282, -0.873994 + 1i*-0.00398605, 0.951786 + 1i*-0.00847386, -1.22539 + 1i*0.00690477,  ...
+1.52444 + 1i*0.00793245, -0.878171 + 1i*0.0172469, -1.3104 + 1i*0.00618616, 0.320149 + 1i*0.00808446, 2.15309 + 1i*-0.0149165,  ...
+-1.20713 + 1i*-0.00193329, -1.11487 + 1i*-0.00874702, -0.575065 + 1i*0.00314707, -1.20851 + 1i*0.0118219, -0.816664 + 1i*0.0222797,  ...
+0.943167 + 1i*-0.00218775, 0.593425 + 1i*0.00129675, -0.660611 + 1i*0.0186839, 1.10615 + 1i*-0.00472306, 1.16032 + 1i*0.0010328,  ...
+1.53691 + 1i*-0.0202357, -0.707574 + 1i*0.0113721, 0.326069 + 1i*-0.0120987, 0.346111 + 1i*-0.000572255, -0.570039 + 1i*0.0271333,  ...
+0.631296 + 1i*-0.0156498, -0.516067 + 1i*0.0144474, 1.77322 + 1i*-0.00881997, 0.991203 + 1i*-0.00309691, 0.522739 + 1i*0.00194278,  ...
+1.09272 + 1i*-0.00992984, -0.646295 + 1i*-0.00983316, 1.49089 + 1i*-0.011861, 1.11758 + 1i*-0.0228076, -0.613976 + 1i*0.0168838,  ...
+-1.29789 + 1i*0.0184254, -1.06671 + 1i*0.00120396, 1.02926 + 1i*0.00145287, -0.549137 + 1i*0.0164988, -1.0394 + 1i*0.0173311,  ...
+0.656508 + 1i*-0.0164448, -0.296716 + 1i*0.00514658, 1.35527 + 1i*-0.0167787, -1.45946 + 1i*0.022532, 1.482 + 1i*-0.00664451,  ...
+0.756713 + 1i*-0.0142348, 0.645048 + 1i*0.00615829, -1.37342 + 1i*0.00579066, -0.537473 + 1i*-0.00826278, 1.0053 + 1i*-0.00206884,  ...
+1.54238 + 1i*-0.0236182, 1.09979 + 1i*-0.0234051, -0.868526 + 1i*0.0119034, -0.689539 + 1i*0.0177979, 1.08517 + 1i*-0.0306522,  ...
+-1.77111 + 1i*0.00795938, -0.374948 + 1i*-0.00587671, 0.876791 + 1i*-0.0255067, -1.07898 + 1i*0.0208856, 1.05776 + 1i*-0.0128927,  ...
+-1.87903 + 1i*0.0225818];
+figure;plot(real(CH1_315), imag(CH1_315), '.', 'DisplayName', 'CH1_315'); hold on;
+plot(real(CH0_315), imag(CH0_315), '.', 'DisplayName', 'CH0_315'); hold on;
 title('Received Data'); xlabel('Real'); ylabel('Imag'); axis equal; legend; grid on;
 
